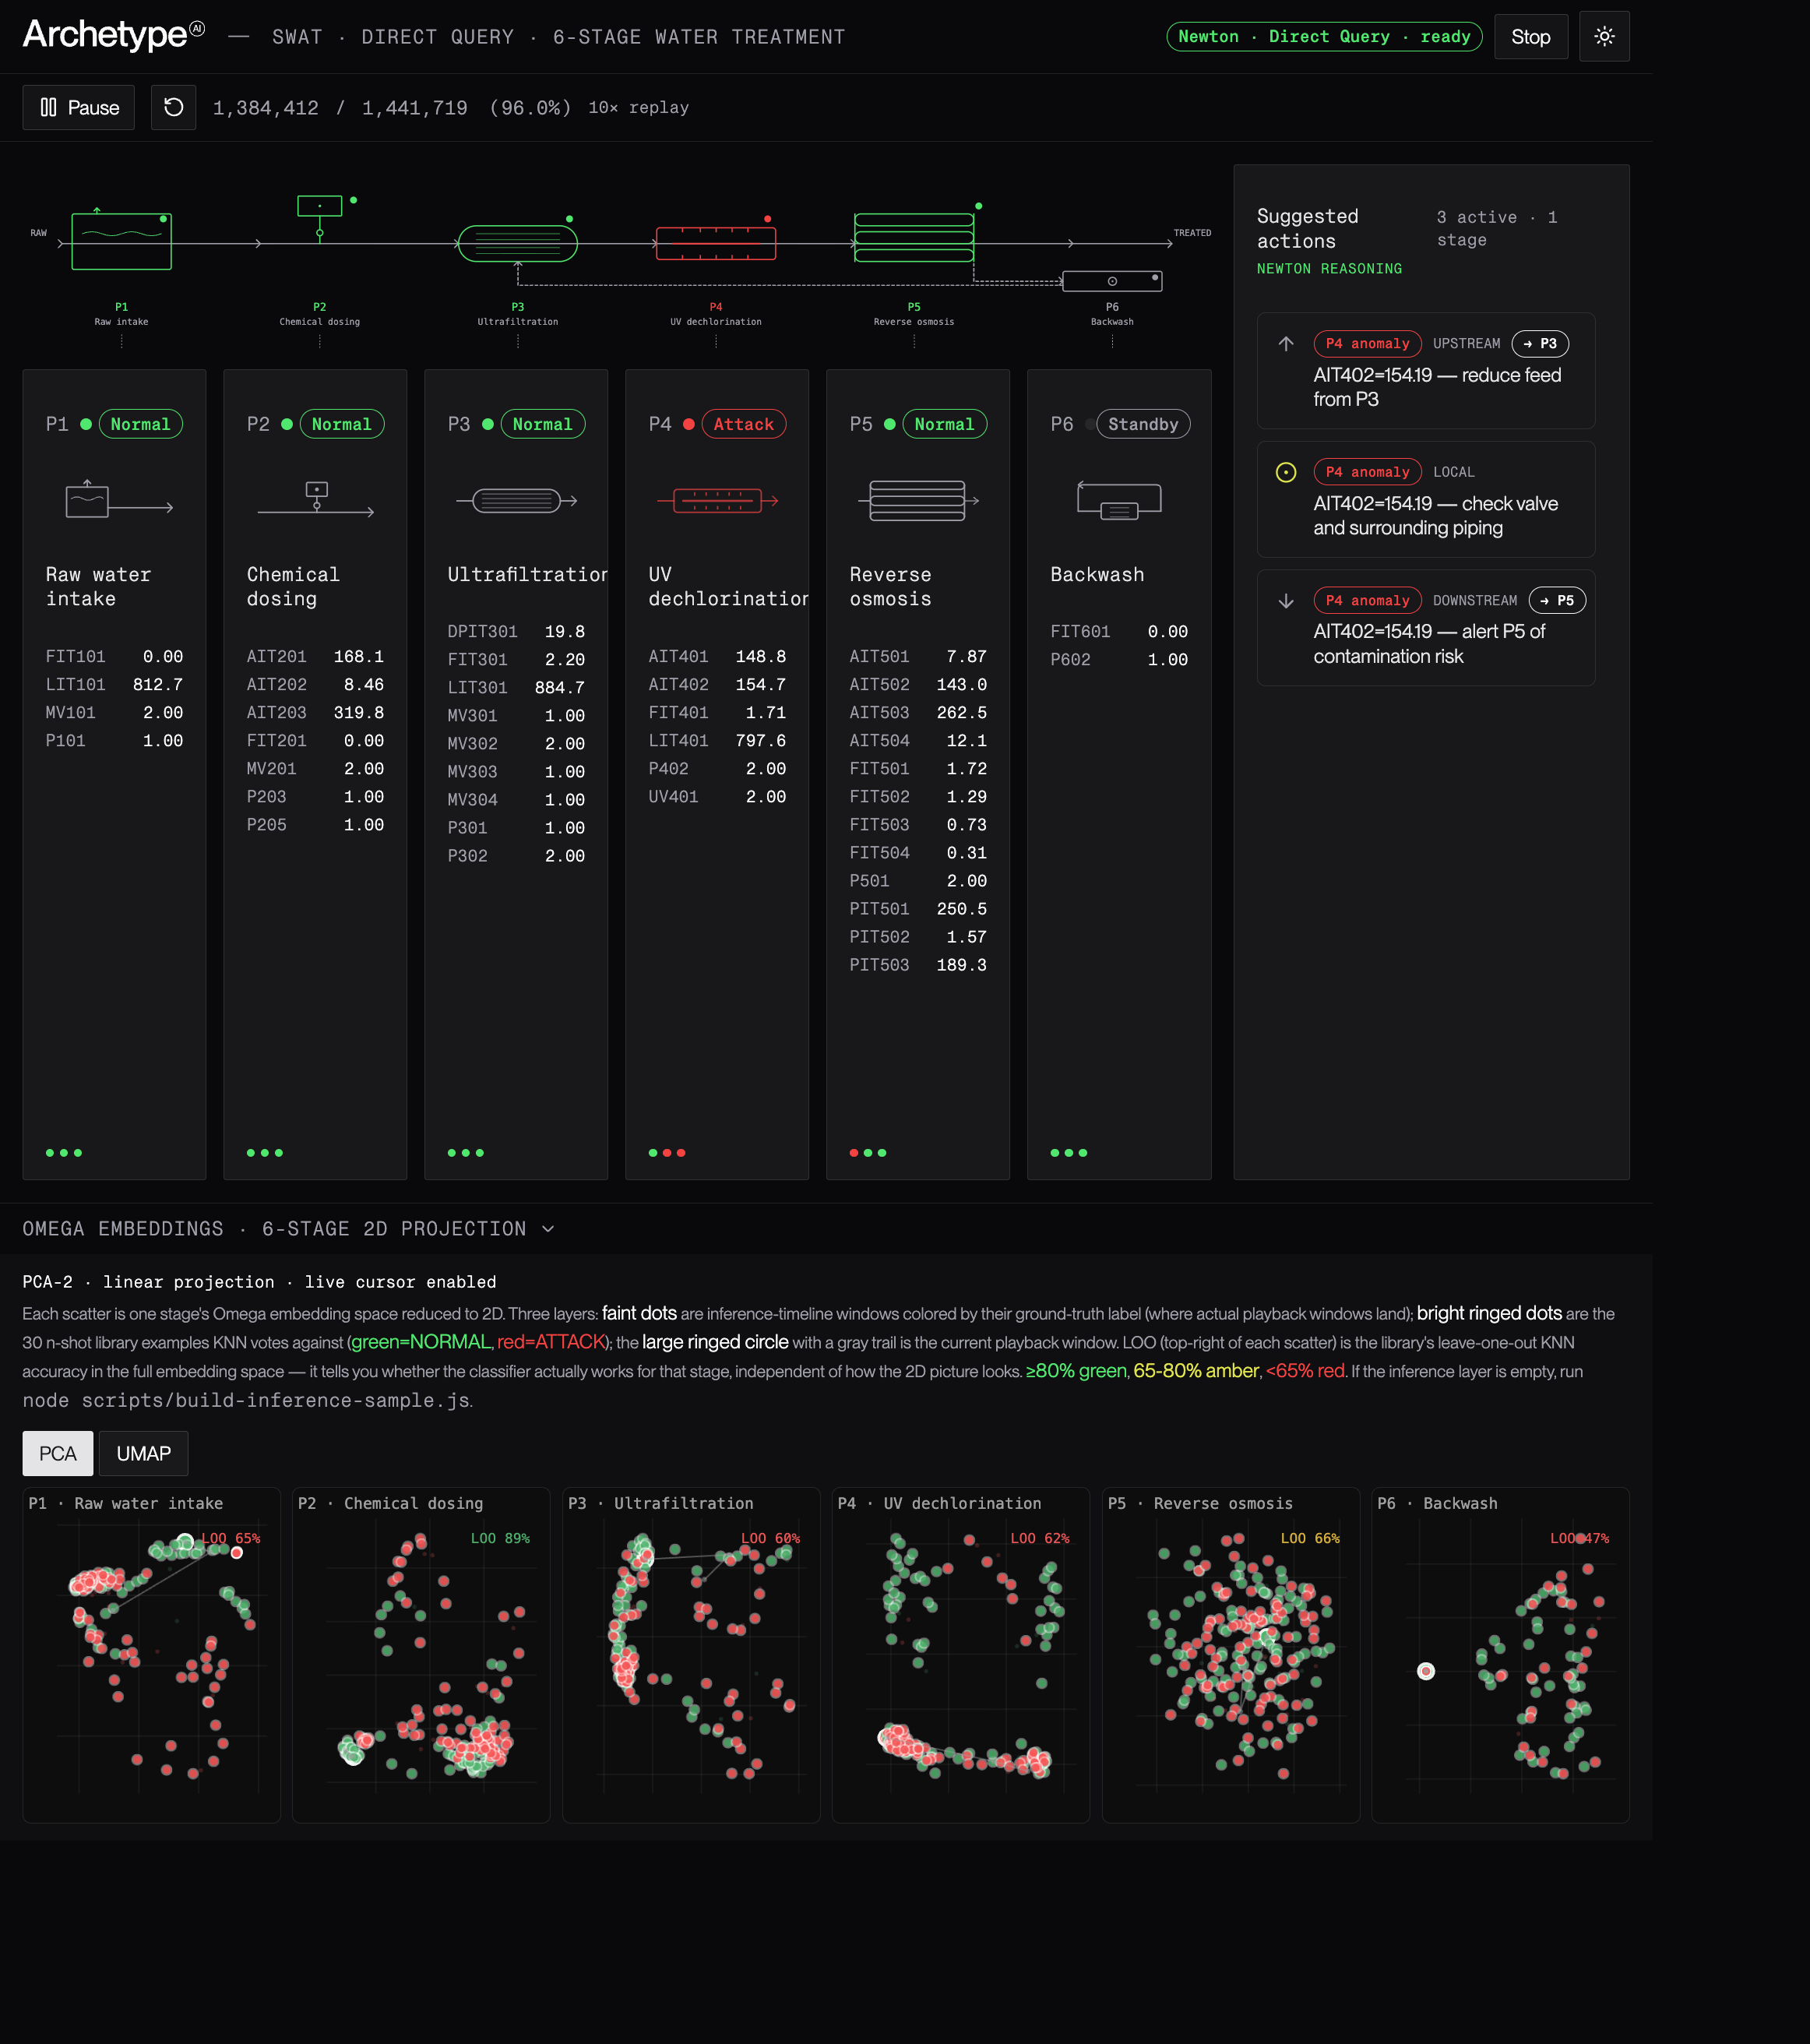
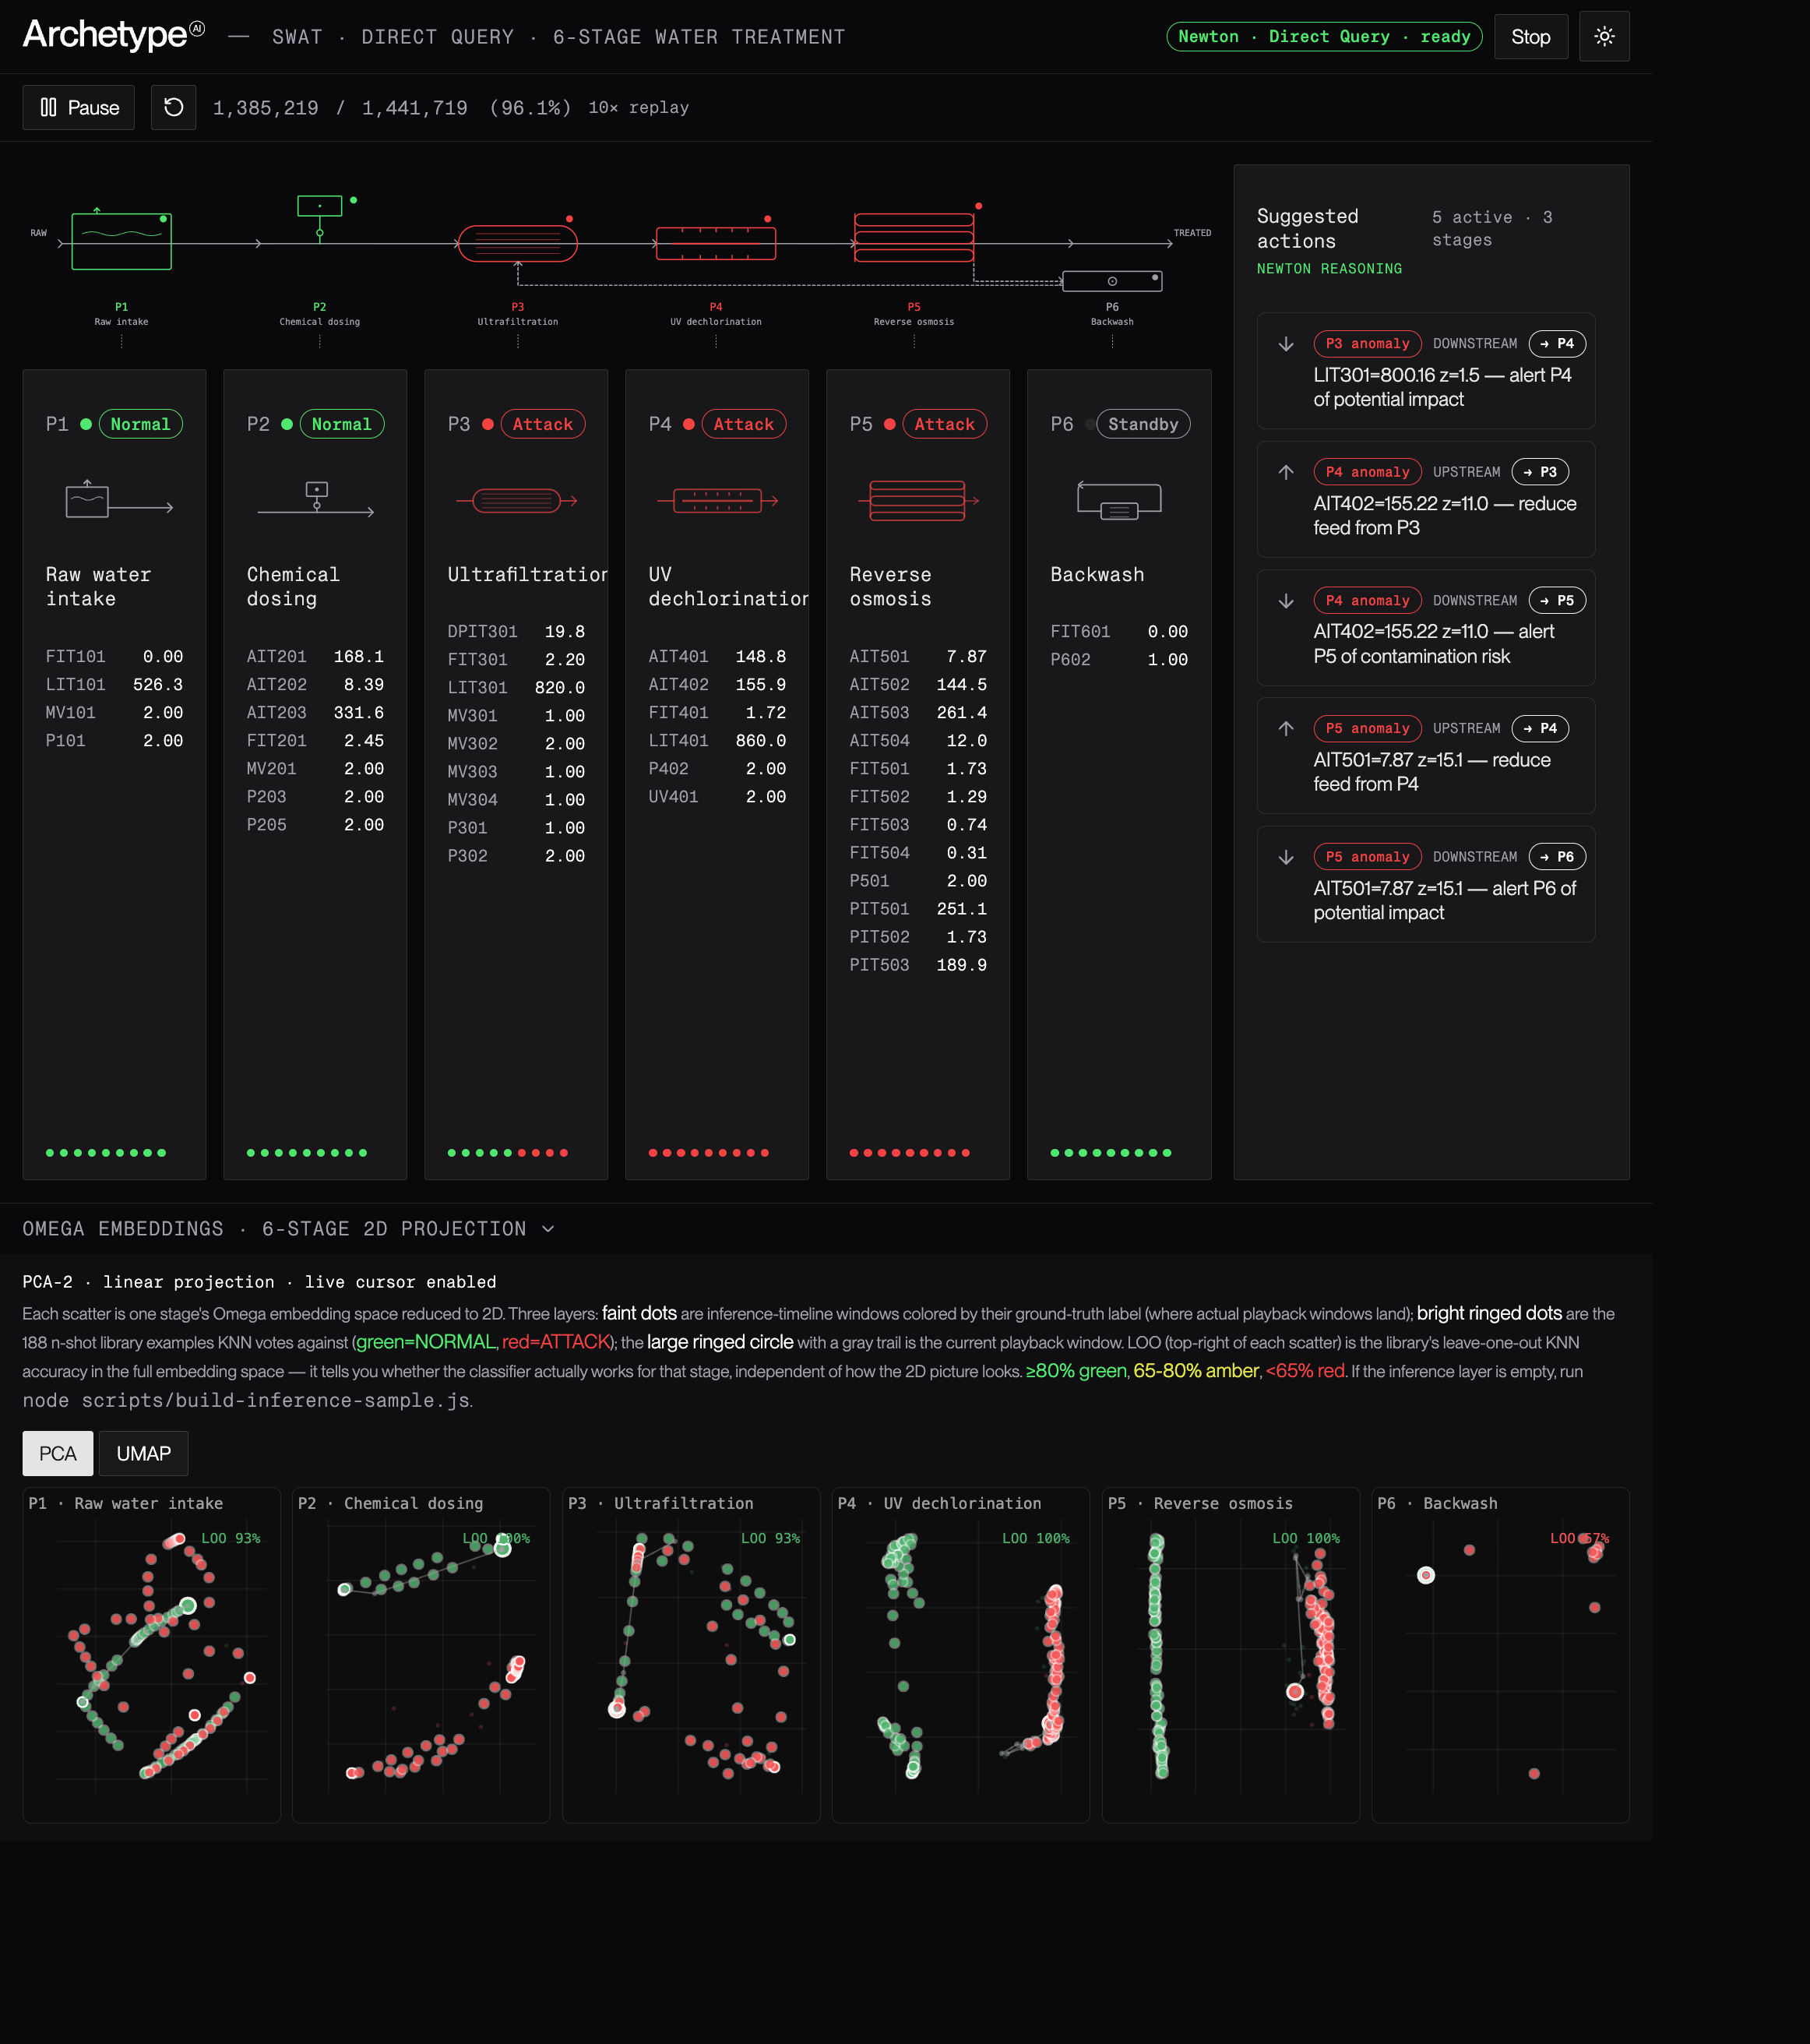
Pre-normalize windows with a global scaler (LOO 57-100% per stage)
Calling Omega /query with normalize_input=true normalizes each window in
isolation, erasing cross-window amplitude signal. The skill that calls this
out (archetypeai-agent-skills/skills/newton-machine-state) recommends
fitting a global StandardScaler on the focus pool and passing
normalize_input=false everywhere. This commit does that:

- scripts/build-scaler.js: compute per-channel mean and std over
  swat_normal.csv + swat_attack.csv, save to data/scaler.json (~3 KB,
  committed for convenience).
- scripts/build-knn-library.js and scripts/build-inference-sample.js:
  load the scaler at startup, apply (x - mean) / std to each window,
  send to /query with normalize_input=false.
- src/lib/server/newton.js: lazy-load the scaler at first classify
  request, apply it in classifyStage(), pass normalize_input=false.
- embedding-panel header text updated (188 library points, not 30).
- README documents the build steps and the LOO before/after impact;
  screenshots refreshed to the post-normalization state.

LOO per stage:
  before -> after
  P1: 65 -> 93
  P2: 89 -> 100
  P3: 60 -> 93
  P4: 62 -> 100
  P5: 66 -> 100
  P6: 47 -> 57   (only 2 sensors, mostly idle)

diff --git a/scripts/build-scaler.js b/scripts/build-scaler.js
@@ -1,0 +1,110 @@
+#!/usr/bin/env node
+// Compute a per-channel StandardScaler (mean + std) over the n-shot training
+// pool. Used to pre-normalize every window before sending to /query, with
+// `normalize_input: false` so Omega sees consistent amplitudes across windows.
+//
+// Without this, /query is called with `normalize_input: true` which normalizes
+// per-window. That loses cross-window amplitude signal — e.g. LIT401=574 and
+// LIT401=950 look identical after per-window normalization. The recommended
+// pattern (see archetypeai-agent-skills newton-machine-state) is to fit a
+// global scaler once on the focus pool and apply it everywhere.
+//
+// Usage: node scripts/build-scaler.js [--source=both|normal|attack]
+// Output: data/scaler.json
+//   { columns: [...], mean: { col: m, ... }, std: { col: s, ... } }
+
+import { readFileSync, writeFileSync } from 'fs';
+import { resolve } from 'path';
+
+function readCsv(filePath) {
+	const text = readFileSync(filePath, 'utf-8');
+	const lines = text.split(/\r?\n/).filter((l) => l.trim());
+	const headers = lines[0].split(',').map((h) => h.trim());
+	const rows = lines.slice(1).map((line) => line.split(','));
+	return { headers, rows };
+}
+
+function parseArgs() {
+	const out = { source: 'both' };
+	for (const a of process.argv.slice(2)) {
+		const m = a.match(/^--(\w+)=(\S+)$/);
+		if (m) out[m[1]] = m[2];
+	}
+	return out;
+}
+
+function main() {
+	const args = parseArgs();
+	const normal = readCsv(resolve('data/swat_normal.csv'));
+	const attack = readCsv(resolve('data/swat_attack.csv'));
+
+	// Header alignment check: both files should have the same columns in the
+	// same order. Drop the timestamp column from the scaler — we only normalize
+	// sensor channels.
+	if (normal.headers.join(',') !== attack.headers.join(',')) {
+		throw new Error('Header mismatch between swat_normal.csv and swat_attack.csv');
+	}
+	const columns = normal.headers.filter((h) => h !== 'timestamp');
+	console.log(`Channels in scaler: ${columns.length}`);
+
+	const sources = [];
+	if (args.source === 'normal' || args.source === 'both') sources.push(normal);
+	if (args.source === 'attack' || args.source === 'both') sources.push(attack);
+	console.log(`Source: ${args.source} (${sources.length} file${sources.length > 1 ? 's' : ''})`);
+
+	// Single pass per channel: track sum, sumsq, count.
+	const stats = {};
+	for (const col of columns) stats[col] = { sum: 0, sumsq: 0, n: 0 };
+
+	for (const file of sources) {
+		const colIdx = columns.map((c) => file.headers.indexOf(c));
+		for (const row of file.rows) {
+			for (let i = 0; i < columns.length; i++) {
+				const v = parseFloat(row[colIdx[i]]);
+				if (Number.isNaN(v)) continue;
+				const s = stats[columns[i]];
+				s.sum += v;
+				s.sumsq += v * v;
+				s.n += 1;
+			}
+		}
+	}
+
+	const mean = {};
+	const std = {};
+	for (const col of columns) {
+		const { sum, sumsq, n } = stats[col];
+		const m = sum / n;
+		const variance = Math.max(0, sumsq / n - m * m);
+		const s = Math.sqrt(variance);
+		mean[col] = m;
+		// Avoid divide-by-zero for constant channels. Use 1 so the scaled
+		// value is (x - mean), which still preserves the structure.
+		std[col] = s > 1e-9 ? s : 1;
+	}
+
+	const out = {
+		columns,
+		mean,
+		std,
+		config: {
+			source: args.source,
+			samplesUsed: stats[columns[0]].n,
+			builtAt: new Date().toISOString()
+		}
+	};
+
+	const outPath = resolve('data/scaler.json');
+	writeFileSync(outPath, JSON.stringify(out, null, 2));
+	console.log(`\nWrote ${outPath} from ${out.config.samplesUsed} samples per channel`);
+
+	// Print a sample of channels so the user can sanity-check magnitudes.
+	const sample = ['FIT101', 'LIT101', 'MV101', 'LIT401', 'PIT501'];
+	for (const col of sample) {
+		if (mean[col] !== undefined) {
+			console.log(`  ${col}: mean=${mean[col].toFixed(3)}, std=${std[col].toFixed(3)}`);
+		}
+	}
+}
+
+main();

diff --git a/src/lib/server/newton.js b/src/lib/server/newton.js
@@ -34,6 +34,43 @@ function apiUrl(path) {
 }
 
 // ──────────────────────────────────────────────────────────────────────
+// Global per-channel StandardScaler (data/scaler.json). Loaded lazily.
+// Pre-normalizing every window with these fixed stats — and passing
+// normalize_input=false to Omega — preserves cross-window amplitude signal
+// that per-window normalization would erase. See scripts/build-scaler.js.
+// ──────────────────────────────────────────────────────────────────────
+
+let SCALER = null;
+let SCALER_ERROR = null;
+function ensureScaler() {
+	if (SCALER || SCALER_ERROR) return;
+	const path = resolve('data/scaler.json');
+	if (!existsSync(path)) {
+		SCALER_ERROR = new Error(
+			'Missing data/scaler.json — run `node scripts/build-scaler.js` first.'
+		);
+		return;
+	}
+	SCALER = JSON.parse(readFileSync(path, 'utf-8'));
+}
+
+function applyScaler(channelFirstWindow, columns) {
+	ensureScaler();
+	if (SCALER_ERROR) throw SCALER_ERROR;
+	const out = new Array(columns.length);
+	for (let c = 0; c < columns.length; c++) {
+		const col = columns[c];
+		const m = SCALER.mean[col] ?? 0;
+		const s = SCALER.std[col] ?? 1;
+		const src = channelFirstWindow[c];
+		const dst = new Array(src.length);
+		for (let i = 0; i < src.length; i++) dst[i] = (src[i] - m) / s;
+		out[c] = dst;
+	}
+	return out;
+}
+
+// ──────────────────────────────────────────────────────────────────────
 // KNN library (loaded once at boot from data/knn-library.json)
 // ──────────────────────────────────────────────────────────────────────
 
@@ -100,7 +137,9 @@ export async function embedWindow(channelFirstWindow) {
 	const data = await postQuery({
 		query: '',
 		model: OMEGA_MODEL,
-		normalize_input: true,
+		// Pre-normalized at the call site via applyScaler(); Omega should NOT
+		// re-normalize per-window or it would erase cross-window amplitude.
+		normalize_input: false,
 		events: [
 			{
 				type: 'data.numeric_array',
@@ -175,7 +214,8 @@ function extractStageWindow(stageId, rows) {
 // embedding-viz panel without re-querying Omega).
 export async function classifyStage(stageId, rows, { k = DEFAULT_CONFIG.nNeighbors } = {}) {
 	const win = extractStageWindow(stageId, rows);
-	const embedding = await embedWindow(win);
+	const scaled = applyScaler(win, STAGE_COLUMNS[stageId]);
+	const embedding = await embedWindow(scaled);
 	const { label, neighbors } = classifyEmbedding(stageId, embedding, k);
 	// Project to 2D for the embedding-viz panel. Cheap (~10-50ms total for
 	// PCA + UMAP transform). If projection ever fails, the classification

diff --git a/scripts/build-knn-library.js b/scripts/build-knn-library.js
@@ -21,8 +21,32 @@
 //
 // Usage: node scripts/build-knn-library.js [--window=128] [--step=128]
 
-import { readFileSync, writeFileSync, mkdirSync } from 'fs';
+import { readFileSync, writeFileSync, mkdirSync, existsSync } from 'fs';
 import { resolve, dirname } from 'path';
+
+// Global per-channel scaler. Without this, /query is called with
+// normalize_input=true which normalizes per-window and erases cross-window
+// amplitude signal. With this scaler we normalize once with the same fixed
+// stats everywhere and pass normalize_input=false to Omega.
+const SCALER_PATH = resolve('data/scaler.json');
+const SCALER = existsSync(SCALER_PATH) ? JSON.parse(readFileSync(SCALER_PATH, 'utf-8')) : null;
+if (!SCALER) {
+	console.error('Missing data/scaler.json — run `node scripts/build-scaler.js` first.');
+	process.exit(1);
+}
+function applyScaler(channelFirstWindow, columns) {
+	const out = new Array(columns.length);
+	for (let c = 0; c < columns.length; c++) {
+		const col = columns[c];
+		const m = SCALER.mean[col] ?? 0;
+		const s = SCALER.std[col] ?? 1;
+		const src = channelFirstWindow[c];
+		const dst = new Array(src.length);
+		for (let i = 0; i < src.length; i++) dst[i] = (src[i] - m) / s;
+		out[c] = dst;
+	}
+	return out;
+}
 
 const STAGE_COLUMNS = {
 	P1: ['FIT101', 'LIT101', 'MV101', 'P101'],
@@ -86,7 +110,10 @@ async function queryOmega(endpoint, apiKey, channelFirstWindow) {
 		body: JSON.stringify({
 			query: '',
 			model: MODEL,
-			normalize_input: true,
+			// We pre-normalize with the global StandardScaler before sending, so
+			// Omega should NOT normalize per-window — that would erase the
+			// cross-window amplitude signal we just preserved.
+			normalize_input: false,
 			events: [
 				{
 					type: 'data.numeric_array',
@@ -122,16 +149,18 @@ function flatten2D(arr) {
 
 async function buildForStage(stageId, csvSets, headerIdxByLabel, endpoint, apiKey, windowSize, stepSize) {
 	const embeddings = [];
+	const stageColumns = STAGE_COLUMNS[stageId];
 	for (const { label, csv } of csvSets) {
 		const headerIdx = headerIdxByLabel[label];
 		const rows = csv.rows;
 		const total = rows.length;
 		for (let start = 0; start + windowSize <= total; start += stepSize) {
 			const win = extractWindow(rows, headerIdx, start, windowSize);
+			const scaled = applyScaler(win, stageColumns);
 			let attempt = 0;
 			while (true) {
 				try {
-					const emb2d = await queryOmega(endpoint, apiKey, win);
+					const emb2d = await queryOmega(endpoint, apiKey, scaled);
 					embeddings.push({ label, vec: flatten2D(emb2d) });
 					break;
 				} catch (err) {

diff --git a/scripts/build-inference-sample.js b/scripts/build-inference-sample.js
@@ -10,8 +10,31 @@
 //
 // Usage: node scripts/build-inference-sample.js [--offset=701000] [--rows=6000] [--window=128] [--step=128]
 
-import { readFileSync, writeFileSync } from 'fs';
+import { readFileSync, writeFileSync, existsSync } from 'fs';
 import { resolve } from 'path';
+
+// Global per-channel scaler shared with build-knn-library.js and the live
+// /api/classify path. Required — pre-normalizing with consistent stats
+// everywhere is what lets us pass normalize_input=false to Omega.
+const SCALER_PATH = resolve('data/scaler.json');
+const SCALER = existsSync(SCALER_PATH) ? JSON.parse(readFileSync(SCALER_PATH, 'utf-8')) : null;
+if (!SCALER) {
+	console.error('Missing data/scaler.json — run `node scripts/build-scaler.js` first.');
+	process.exit(1);
+}
+function applyScaler(channelFirstWindow, columns) {
+	const out = new Array(columns.length);
+	for (let c = 0; c < columns.length; c++) {
+		const col = columns[c];
+		const m = SCALER.mean[col] ?? 0;
+		const s = SCALER.std[col] ?? 1;
+		const src = channelFirstWindow[c];
+		const dst = new Array(src.length);
+		for (let i = 0; i < src.length; i++) dst[i] = (src[i] - m) / s;
+		out[c] = dst;
+	}
+	return out;
+}
 
 const STAGE_COLUMNS = {
 	P1: ['FIT101', 'LIT101', 'MV101', 'P101'],
@@ -88,7 +111,9 @@ async function queryOmega(endpoint, apiKey, channelFirstWindow) {
 		body: JSON.stringify({
 			query: '',
 			model: MODEL,
-			normalize_input: true,
+			// Windows are pre-normalized with the global scaler before this call,
+			// so don't let Omega re-normalize per-window.
+			normalize_input: false,
 			events: [{ type: 'data.numeric_array', event_data: { contents: channelFirstWindow } }]
 		})
 	});
@@ -142,11 +167,12 @@ async function main() {
 		for (let i = 0; i < numWindows; i++) {
 			const start = i * args.step;
 			const win = extractWindow(rows, idx, start, args.window);
+			const scaled = applyScaler(win, cols);
 			const truth = majorityLabel(rows, labelIdx, start, args.window);
 			let attempt = 0;
 			while (true) {
 				try {
-					const emb2d = await queryOmega(endpoint, env.ATAI_API_KEY, win);
+					const emb2d = await queryOmega(endpoint, env.ATAI_API_KEY, scaled);
 					embeddings.push({
 						vec: flatten2D(emb2d),
 						label: truth,

diff --git a/src/lib/components/ui/custom/embedding-panel.svelte b/src/lib/components/ui/custom/embedding-panel.svelte
@@ -229,14 +229,14 @@
 				{#if mode === 'pca'}
 					PCA-2 · linear projection · live cursor enabled
 				{:else}
-					UMAP-2 · non-linear · 30 library points (low-data approximation)
+					UMAP-2 · non-linear · 188 library points per stage
 				{/if}
 			</div>
 			<div class="text-muted-foreground text-xs leading-relaxed">
 				Each scatter is one stage's Omega embedding space reduced to 2D. Three layers:
 				<span class="text-foreground">faint dots</span> are inference-timeline windows
 				colored by their ground-truth label (where actual playback windows land);
-				<span class="text-foreground">bright ringed dots</span> are the 30 n-shot library
+				<span class="text-foreground">bright ringed dots</span> are the 188 n-shot library
 				examples KNN votes against (<span class="text-atai-good">green=NORMAL</span>,
 				<span class="text-atai-critical">red=ATTACK</span>);
 				the <span class="text-foreground">large ringed circle</span> with a gray trail is

diff --git a/README.md b/README.md
@@ -35,10 +35,18 @@ cp .env.example .env
 
 npm install
 
-# One-time: build the n-shot embedding library used by KNN
-node scripts/build-knn-library.js
-# ~3 min, hits /query 180 times (6 stages × 2 classes × 15 windows).
-# Output: data/knn-library.json (~17 MB)
+# One-time: compute per-channel mean/std over the n-shot training pool.
+node scripts/build-scaler.js
+# < 1 sec, writes data/scaler.json (~3 KB, committed).
+
+# One-time: build the n-shot embedding library used by KNN.
+node scripts/build-knn-library.js --step=20
+# ~20 min, hits /query 1,128 times (6 stages × 2 classes × 94 windows).
+# Output: data/knn-library.json (~110 MB, gitignored — rebuild locally).
+
+# Optional: background scatter of inference-timeline windows for the viz panel.
+node scripts/build-inference-sample.js --offset=1384098 --rows=6000
+# ~5 min, writes data/inference-sample.json (~27 MB, gitignored).
 
 npm run dev
 ```
@@ -51,23 +59,31 @@ Three flows: **build** (offline, one-time), **classify** (per playback window), 
 
 ### At a glance
 
+**Scaler phase (offline, one-time, `node scripts/build-scaler.js`):**
+
+1. Read `swat_normal.csv` + `swat_attack.csv` (4,000 rows total per channel).
+2. Compute per-channel mean and standard deviation across the combined pool.
+3. Save to `data/scaler.json`. Used by every subsequent call to `/query` so all windows share a common reference frame.
+
 **Build phase (offline, one-time, `node scripts/build-knn-library.js --step=20`):**
 
 1. Read `swat_normal.csv` (2,000 rows) and `swat_attack.csv` (2,000 rows).
 2. Slide 128-row windows across each file with `step=20` (overlapping → 94 windows per class per stage, 188 per stage total).
-3. For each window: send to `/query` with `model: OmegaEncoder` → get back a `[num_channels × 768]` embedding → flatten to a 1D vector → tag it `NORMAL` or `ATTACK` based on which file it came from.
+3. For each window: apply the global scaler `(x − mean) / std` per channel, then send to `/query` with `model: OmegaEncoder, normalize_input: false` → get back a `[num_channels × 768]` embedding → flatten to a 1D vector → tag it `NORMAL` or `ATTACK` based on which file it came from.
 4. Save all of these as `data/knn-library.json` (gitignored — exceeds GitHub's 100 MB cap; rebuilds in ~20 min).
 
 **Runtime (per playback window, `/api/classify`):**
 
 1. Take the 128 rows under the playhead.
-2. Send to `/query` with the same `OmegaEncoder` model → get the embedding for the live window.
+2. Apply the same global scaler, then send to `/query` with `model: OmegaEncoder, normalize_input: false` → get the embedding for the live window.
 3. Compute Euclidean distance from this embedding to every embedding in the library.
 4. Pick the 3 closest. Majority vote of their labels → predicted class.
 
 KNN doesn't "train" in the way a neural net does — the library *is* the model. The build phase just embeds the n-shot examples once and stores them with their labels; every runtime prediction is a distance lookup against that stored set.
 
-> **Step size matters.** The initial build used `step=128` (non-overlapping → 15 windows per class) which gave leave-one-out accuracies of 30–63%. Rebuilding with `step=20` brings the library to 94 windows per class and lifts LOO to 47–89% per stage (P2 hits 89%, P5 jumps from 30% → 66%). Even at `step=20`, the dataset is genuinely hard — see the **scope caveats** at the bottom.
+> **Normalization matters more than you'd expect.** Calling `/query` with `normalize_input: true` makes Omega z-score each window in isolation, which erases cross-window amplitude signal — two windows where `LIT401` reads 574 vs 950 look identical to the encoder afterwards. Pre-normalizing with a global per-channel scaler and passing `normalize_input: false` preserves the relative magnitudes. This single change took library LOO accuracy from 47–89% per stage to **57–100%**: P2/P4/P5 hit 100%, P1/P3 hit 93%, P6 (only 2 sensors, mostly idle) is the lone laggard at 57%. The skill that called out this failure mode: [archetypeai-agent-skills/skills/newton-machine-state/SKILL.md#step-1-prepare-focus-csvs](https://github.com/archetypeai/agent-skills/blob/main/skills/newton-machine-state/SKILL.md#step-1-prepare-focus-csvs).
+
+> **Step size also matters.** The very first build used `step=128` (non-overlapping → 15 windows per class) and gave LOO of 30–63%. Bumping to `step=20` (94 windows per class) lifted that to 47–89%. Together with global normalization, we now sit at 57–100%.
 
 ### Phase 1 — Build the n-shot KNN library (offline)
 